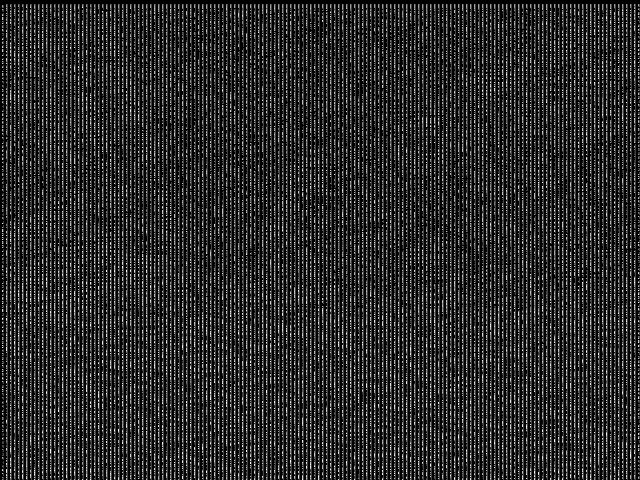
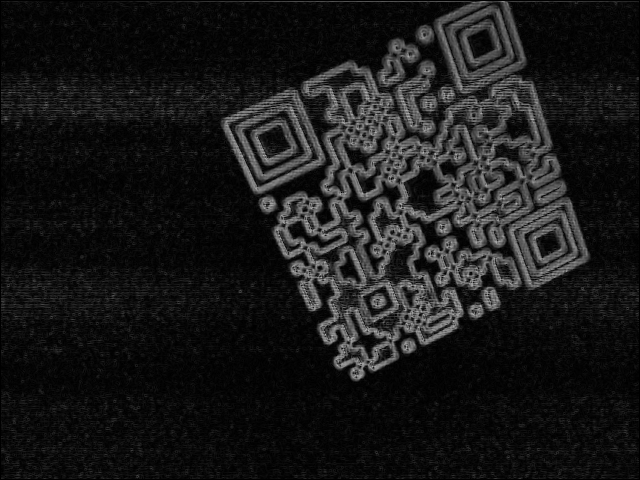
add 02_sobel_python.py and correct 01_sobel.c

diff --git a/04_Edge/01_sobel.c b/04_Edge/01_sobel.c
@@ -24,9 +24,9 @@ int main(int argc, char const *argv[])
     int i, j;
 
     unsigned char pixel[WIDTH*HEIGHT];
-    int Gx[WIDTH*HEIGHT]={0};
-    int Gy[WIDTH*HEIGHT];
-    float G[WIDTH*HEIGHT];
+    char Gx[WIDTH*HEIGHT];
+    char Gy[WIDTH*HEIGHT];
+    unsigned char G[WIDTH*HEIGHT];
     float theta[WIDTH*HEIGHT];
 
     if(argc != 2)
@@ -77,30 +77,22 @@ int main(int argc, char const *argv[])
                 G[i + j*WIDTH] = 0;
             }else
             {
-          //   Gx = (-1)*pixel[i-1][j-1]  + pixel[i+1][j-1] + (-2)*pixel[i-1][j]
-          //       + 2*pixel[i+1][j] + (-1)*pixel[i-1][j+1] + pixel[i+1][j+1];
-          //   Gy = pixel[i-1][j-1] + 2*pixel[i][j-1] + pixel[i+1][j-1] 
-          // + (-1)*pixel[i-1][j+1] + (-2)*pixel[i][j+1] + (-1)*pixel[i+1][j+1];
+                Gx[i + j*WIDTH] = 
+                (-1)*pixel[i-1 + (j-1)*WIDTH]  + pixel[i+1+(j-1)*WIDTH] + (-2)*pixel[i-1+j*WIDTH] + 
+                   2*pixel[i+1+j*WIDTH]   + (-1)*pixel[i-1+(j+1)*WIDTH] + pixel[i+1+(j+1)*WIDTH];
 
-                // Gx[i + j*WIDTH] = 
-                // (-1)*pixel[i-1 + (j-1)*WIDTH]  + pixel[i+1+(j-1)*WIDTH] + (-2)*pixel[i-1+j*WIDTH] + 
-                //    2*pixel[i+1+j*WIDTH] + (-1)*pixel[i-1+(j+1)*WIDTH] + pixel[i+1+(j+1)*WIDTH];
-                // // Gx[i + j*WIDTH] = (-1)*pixel[(i-1)*HEIGHT + (j-1)]  + pixel[(i+1)*HEIGHT+j-1] + (-2)*pixel[(i-1)*HEIGHT+j] + 2*pixel[(i+1)*HEIGHT+j] + (-1)*pixel[(i-1)*HEIGHT+j+1] + pixel[(i+1)*HEIGHT+j+1];
-                // Gy[i + j*WIDTH] = pixel[i-1+(j-1)*WIDTH] + 2*pixel[i+(j-1)*WIDTH] + pixel[i+ 1 + (j-1)*WIDTH] + (-1)*pixel[i-1+(j+1)*WIDTH] + (-2)*pixel[i+(j+1)*WIDTH] + (-1)*pixel[i+1+(j+1)*WIDTH];
-                // G[i+j*WIDTH] = abs(Gx[i+j*WIDTH]) + abs(Gy[i+j*WIDTH]);
-                // if(G[i+j*WIDTH] > 100) G[i+j*WIDTH] = 255;
-                // else G[i+j*WIDTH] = 0;
-                if(i<WIDTH/2)
-                {
-                    Gx[i + j*WIDTH] = 255;
-                }
+                Gy[i + j*WIDTH] = 
+                pixel[i-1+(j-1)*WIDTH] + 2*pixel[i+(j-1)*WIDTH] + pixel[i+ 1 + (j-1)*WIDTH] + 
+           (-1)*pixel[i-1+(j+1)*WIDTH] + (-2)*pixel[i+(j+1)*WIDTH] + (-1)*pixel[i+1+(j+1)*WIDTH];
+
+                G[i+j*WIDTH] = sqrt((Gx[i+j*WIDTH])*(Gx[i+j*WIDTH]) + (Gy[i+j*WIDTH])*(Gy[i+j*WIDTH]));
             }
         }
     }
 
     // Save Gx
     stbi_write_png("Gx.png", WIDTH, HEIGHT, 1, Gx, 0);
-    // stbi_write_png("Gy.png", WIDTH, HEIGHT, 1, Gy, 0);
-    // stbi_write_png("G.png",  WIDTH, HEIGHT, 1, G,  0);
+    stbi_write_png("Gy.png", WIDTH, HEIGHT, 1, Gy, 0);
+    stbi_write_png("G.png",  WIDTH, HEIGHT, 1, G,  0);
     return 0;
 }

diff --git a/04_Edge/02_sobel_opencv.py b/04_Edge/02_sobel_opencv.py
@@ -1,0 +1,107 @@
+#!/usr/bin/env python
+import cv2
+import numpy as np 
+from matplotlib import pyplot as plt
+
+
+# Get the convolution value at  position (row,col)
+def computeCov( img, kernel, row, col ):
+	# kernel = [[a,b,c],
+	# 		  [d,e,f],
+	# 		  [g,h,i]]
+
+	a = kernel[0][0]
+	b = kernel[0][1]
+	c = kernel[0][2]
+	d = kernel[1][0]
+	e = kernel[1][1]
+	f = kernel[1][2]
+	g = kernel[2][0]
+	h = kernel[2][1]
+	i = kernel[2][2]
+	# Ref: https://en.wikipedia.org/wiki/Kernel_(image_processing)#Convolution
+	result = i*img[row-1][col-1] + h*img[row-1][col] + g*img[row-1][col+1] +\
+			 f*img[row][col-1] + e*img[row][col] + d*img[row][col+1] +\
+			 c*img[row+1][col-1] + b*img[row+1][col] + a*img[row+1][col+1] 
+
+	return result
+
+
+
+
+width = 640
+height = 480
+
+Gx = np.zeros((480,640))
+Gy = np.zeros((480,640))
+G  = np.zeros((480,640))
+
+kernel_x = [[1,0,-1],
+		   [2,0,-2],
+		   [1,0,-1]]
+
+kernel_y = [[1,2,1],
+		   [0,0,0],
+		   [-1,-2,-1]]
+
+# Load image
+pixel = np.loadtxt('img_dat.txt')
+img = pixel.reshape((height,width))
+
+
+# Compute kernel*img (where "*" represent convolution)
+for j in range(height):
+	for i in range(width):
+		if i == 0 or j == 0 or i == width - 1 or j == height - 1:
+			Gx[j][i] = 0
+			Gy[j][i] = 0
+			G[j][i] = 0
+		else:
+			Gx[j][i] = computeCov(img, kernel_x, j, i)
+			Gy[j][i] = computeCov(img, kernel_y, j, i)
+			G[j][i] = ((Gx[j][i])**2 + (Gy[j][i])**2 )**0.5
+
+
+plt.subplot(2, 2, 1)
+plt.imshow(img, cmap=plt.cm.gray)
+plt.axis('off')
+plt.title('Original')
+
+plt.subplot(2, 2, 2)
+plt.imshow(Gx, cmap=plt.cm.gray)
+plt.axis('off')
+plt.title('Gx')
+
+plt.subplot(2, 2, 3)
+plt.imshow(Gy, cmap=plt.cm.gray)
+plt.axis('off')
+plt.title('Gy')
+
+plt.subplot(2, 2, 4)
+plt.imshow(G, cmap=plt.cm.gray)
+plt.axis('off')
+plt.title('G')
+
+plt.show()
+
+# Use opencv inbuilt fuction to do 
+# the same thing as above. 
+# You can find they are almost the same
+sobelx = cv2.Sobel(img,cv2.CV_64F,1,0,ksize=3)
+sobely = cv2.Sobel(img,cv2.CV_64F,0,1,ksize=3)
+mag, angle = cv2.cartToPolar(sobelx, sobely, angleInDegrees=True)
+
+print("GX:")
+print(Gx)
+print("sobelx:")
+print(sobelx)
+
+print("Gy:")
+print(Gy)
+print("sobely:")
+print(sobely)
+
+print("mag")
+print(mag)
+print("G")
+print(G)

diff --git a/04_Edge/01_sobel.py b/04_Edge/01_sobel.py
@@ -50,26 +50,3 @@ plt.title('G')
 
 plt.show()
 
-
-
-
-
-
-
-# plt.figure("Sobel Operator")
-
-
-
-# plt.figure(1)#创建图表1  
-# plt.figure(2)#创建图表2  
-# ax1=plt.subplot(211)#在图表2中创建子图1  
-# ax2=plt.subplot(212)#在图表2中创建子图2  
-# x=np.linspace(0,3,100)  
-# for i in range(5):  
-#     plt.figure(1)  
-#     plt.plot(x,np.exp(i*x/3))  
-#     plt.sca(ax1)  
-#     plt.plot(x,np.sin(i*x))  
-#     plt.sca(ax2)  
-#     plt.plot(x,np.cos(i*x))  
-# plt.show()  
